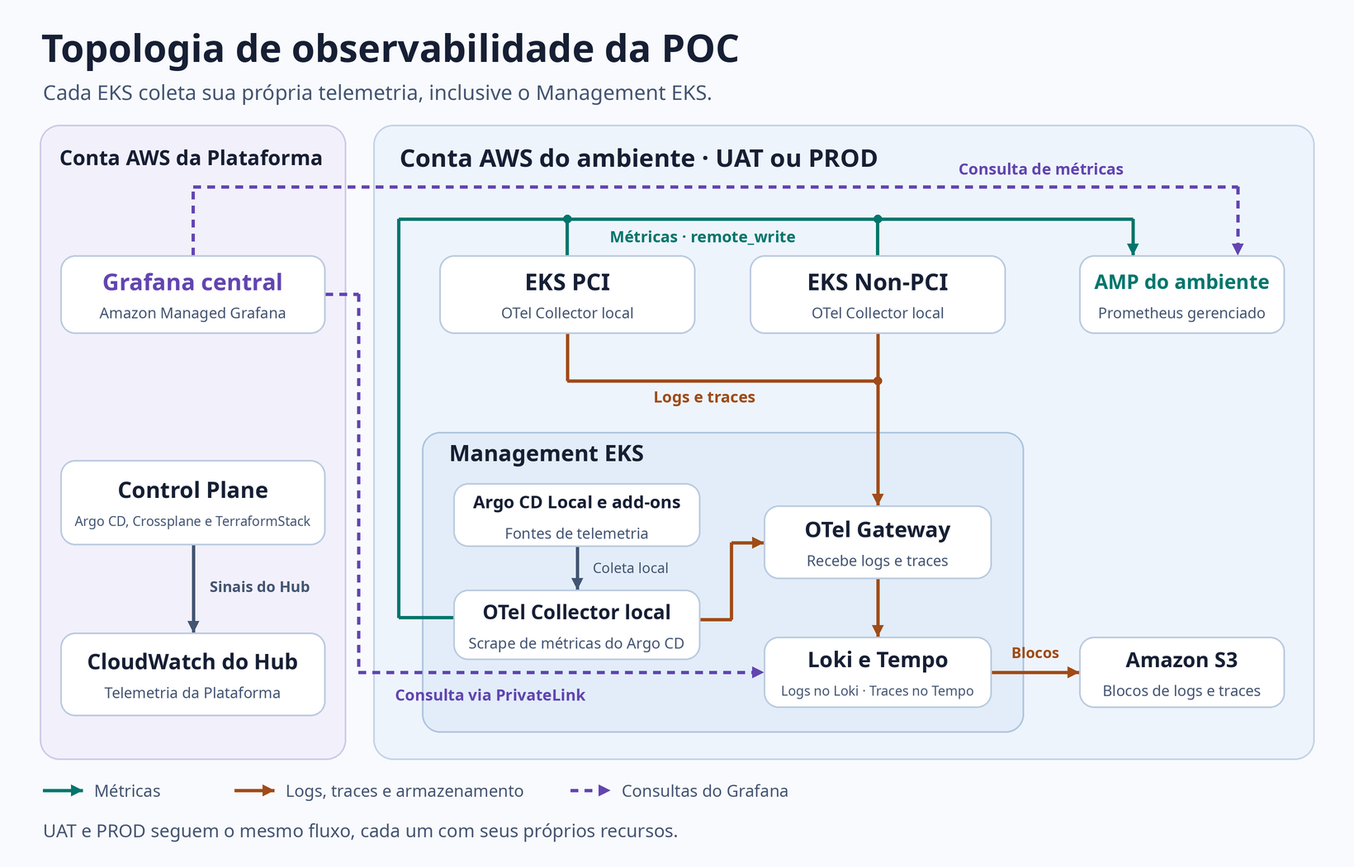
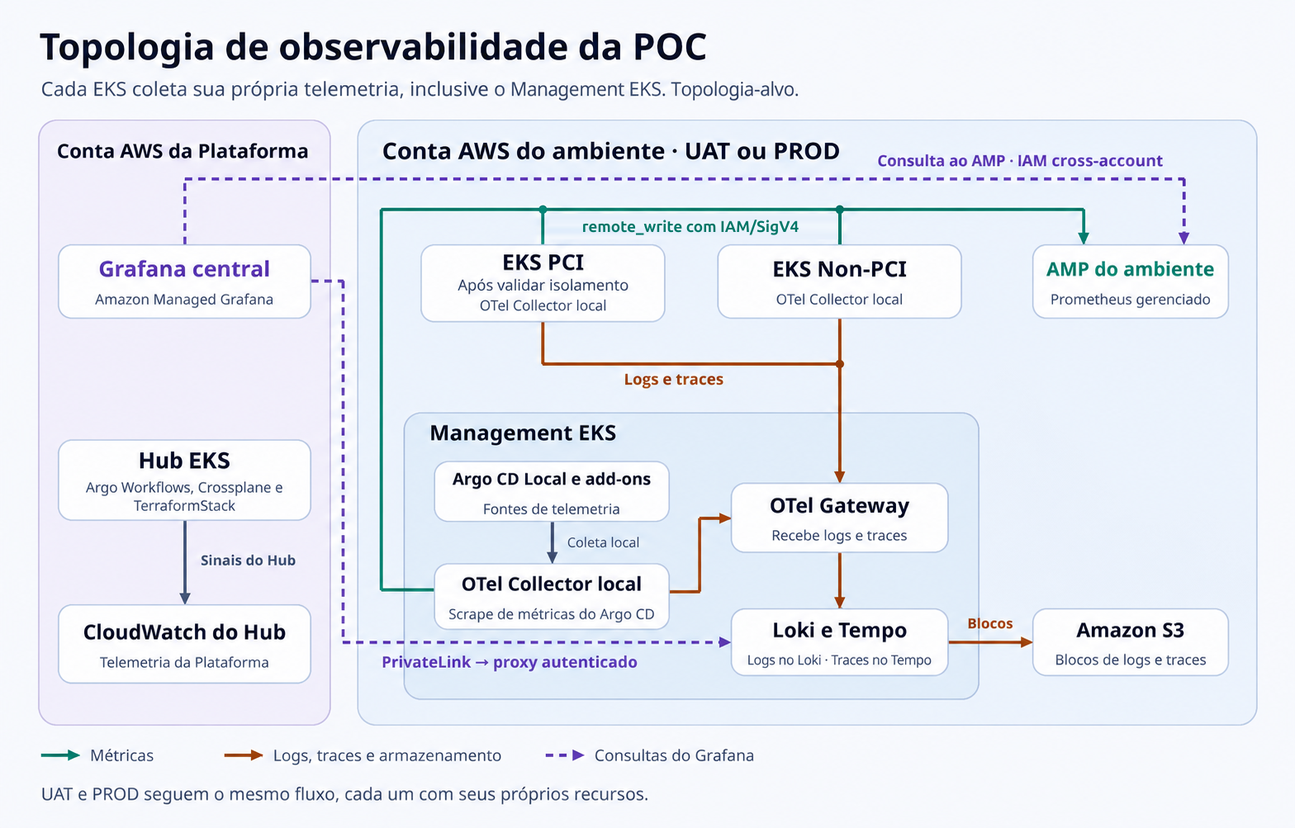
docs: alinha observabilidade, Hub EKS e diagramas

diff --git a/docs/learning-roadmap.md b/docs/learning-roadmap.md
@@ -1,6 +1,6 @@
 # Roteiro prático da POC — Roadmap V2
 
-[← Início](../README.md) · [Arquitetura](architecture.md) · [Guias das etapas](../labs/README.md) · [GitOps](flows/gitops.md) · [TerraformStack](flows/terraformstack.md)
+[← Início](../README.md) · [Arquitetura](architecture.md) · [Guias das etapas](../labs/README.md) · [GitOps](flows/gitops.md) · [TerraformStack](flows/terraformstack.md) · [Observabilidade](flows/observability.md)
 
 A POC é montada em **oito fases e 36 etapas (00–35)**. Cada etapa instala um bloco ou valida um comportamento sobre os blocos já instalados. Os diretórios de implementação seguem os componentes. A numeração organiza os guias e o roteiro. As etapas futuras descrevem entregas e evidências esperadas. [Convenção dos guias](../labs/README.md#como-ler-e-reproduzir-uma-etapa)
 
@@ -55,7 +55,7 @@ Conferir os pré-requisitos da conta de plataforma e consolidar os aceites do Hu
 | **13** | Network e primeiro apply da spoke UAT | Resolver revisões imutáveis e aplicar o mesmo plan aprovado. Verificar e disponibilizar ID da VPC e sub-redes para EKS |
 | **14** | EKS Management em UAT | Consumir outputs verificados de Network e exigir dependência `Ready`. Aplicar o perfil Management, testar acesso privado e iniciar o onboarding |
 | **15** | EKS Non-PCI em UAT | Habilitar Non-PCI na mesma raiz EKS. Verificar dependências, IAM e outputs. PCI segue para a Etapa 30 |
-| **16** | Platform GitOps multicluster e add-ons | Criar Access Entries, registrar ARNs e labels, comprovar sincronização de APIs privadas entre VPCs isoladas pela EKS Capability for Argo CD. ApplicationSets entregam add-ons por perfil; Argo CD local recebe destinos autorizados na própria VPC. [ADR-0008](adr/0008-managed-argocd-connectivity.md) |
+| **16** | Platform GitOps multicluster e add-ons | Criar Access Entries, registrar ARNs e labels, comprovar sincronização de APIs privadas entre VPCs isoladas pela EKS Capability for Argo CD. ApplicationSets entregam add-ons por perfil. Argo CD local recebe destinos autorizados na própria VPC. A instalação dos componentes de observabilidade em UAT entra nas Etapas 26–27. [ADR-0008](adr/0008-managed-argocd-connectivity.md) |
 | **17** | GitOps Bridge | Publicar outputs allowlisted no Parameter Store após verify e comprovar consumo via ESO no Management EKS |
 | **18** | Smoke test HTTP do Non-PCI | Argo CD local sincroniza workload mínimo, verifica serviço e remove os recursos do teste |
 
@@ -104,12 +104,12 @@ Construir uma aplicação **mínima e funcional** usando a infraestrutura pronta
 
 ## Fase 6 — Observabilidade, operação e governança
 
-Integrar a coleta e a visualização dos sinais do Hub e dos clusters do Environment. A Etapa 26 começa com Management e Non-PCI em UAT. As Etapas 30–31 ampliam a validação para PCI e PROD quando disponíveis. [ADR-0010](adr/0010-observability-topology.md) · [Fluxo e critérios de aceite](flows/observability.md) O controller não depende de backends externos. Concluir as validações de lifecycle na AWS. Políticas preventivas essenciais já devem existir desde a introdução de cada componente; esta fase consolida diagnósticos e cenários mais avançados.
+Integrar a coleta e a consulta dos sinais do Hub e dos clusters do Environment. A Etapa 26 começa com Management e Non-PCI em UAT. As Etapas 30–31 ampliam a validação para PCI e PROD quando autorizados. O controller já expõe seus sinais operacionais localmente. A fase também consolida as validações de lifecycle e políticas na AWS. [ADR-0010](adr/0010-observability-topology.md) · [Fluxo e critérios de aceite](flows/observability.md)
 
 | Etapa | Entrega | Evidência |
 | :--- | :--- | :--- |
-| **26** | Telemetria do Hub e de UAT | Validar Collectors no Management e no Non-PCI, envio direto ao AMP e scrape do Argo CD local. Correlacionar métrica, log e trace de aplicação no Grafana. Conferir consultas do Grafana a Loki/Tempo via PrivateLink e os sinais essenciais do Hub no CloudWatch. |
-| **27** | Diagnóstico, recuperação e custos | Interromper o OTel Gateway em UAT, confirmar novas amostras no AMP e receber alerta externo ao Management EKS. Medir recuperação e perda de logs/traces, rastreabilidade e custo. |
+| **26** | Telemetria do Hub e de UAT | Validar Collectors no Management e no Non-PCI, envio direto ao AMP e scrape do Argo CD local. Correlacionar métrica, log e trace de aplicação no Managed Grafana. Validar consulta ao AMP via IAM cross-account, a Loki/Tempo via PrivateLink e proxy autenticado. Conferir os sinais essenciais do Hub no CloudWatch. |
+| **27** | Diagnóstico, recuperação e custos | Interromper o OTel Gateway em UAT, confirmar novas amostras no AMP e receber alerta de um check externo ao Management EKS. Após recuperar o Gateway, medir fila, perda de logs e traces e custo. |
 | **28** | Drift Detection do TerraformStack | Validar na AWS `driftCheckInterval` configurável, agendamento idempotente com jitter e verificação periódica; detectar alteração externa em stack UAT, registrar última/próxima checagem e condição/alerta **sem aplicar correção** |
 | **29** | Reconciliação, destroy e políticas | Ampliar as regras OPA da Etapa 13 e comprovar **Auto Apply / Require Approval / Deny** com três planos de teste e evidências da etapa alcançada; testar drift, `plan -destroy` explícito, destroy on deletion com finalizer, proteção de dependências, aprovação humana e bloqueio de ações sensíveis |
 | **30** | EKS PCI e isolamento PCI/Non-PCI em UAT | Reutilizar a **stack EKS** e habilitar PCI somente com autorização/custo aprovados; registrar com perfil restrito, aplicar add-ons autorizados e testar negações entre PCI e Non-PCI, incluindo escrita e consulta de telemetria. Sem PCI real, declarar somente validação lógica, não isolamento operacional |

diff --git a/README.md b/README.md
@@ -34,7 +34,7 @@ O exercício implementa uma fatia do **Rastreamento de Encomendas**. Um operador
 
 [**Ver diagrama em tamanho completo**](docs/arquitetura%20Plataform.png) · [Topologia lógica e fluxos detalhados](docs/architecture.md#2-visão-geral)
 
-O diagrama mostra a topologia-alvo. A POC começa com o [bootstrap do Hub EKS Auto Mode](labs/01-platform-management-cluster.md) e o [primeiro sync no Argo CD gerenciado](labs/02-argocd-central.md). O Hub está provisionado. O primeiro workload e o aceite GitOps no EKS ainda precisam ser executados. [Estado da POC](docs/architecture.md#2-visão-geral) · [Evidências do Simulator](labs/06-terraformstack-simulator.md#evidências-de-aceite).
+O diagrama mostra a topologia-alvo. A POC começa com o [bootstrap do Hub EKS Auto Mode](labs/01-platform-management-cluster.md) e o [primeiro sync no Argo CD gerenciado](labs/02-argocd-central.md). O Hub está provisionado. O primeiro workload e o aceite GitOps no EKS ainda precisam ser executados. As evidências existentes do Simulator e do Crossplane são do lab local em `kind`. [Estado da POC](docs/architecture.md#2-visão-geral) · [Evidências do Simulator](labs/06-terraformstack-simulator.md#evidências-de-aceite).
 
 **Environment é o contexto UAT/PROD associado à conta AWS inteira, não apenas ao Core.** O Data Plane contém **Core Infrastructure compartilhada** e **Domains** de negócio/aplicação. Um Domain pode possuir Capabilities, namespaces e apps em ambos os ambientes. Capabilities continuam entregues por Crossplane central e aplicações por Argo CD local.
 
@@ -76,7 +76,7 @@ A infraestrutura do Domain é simulada em **pastas do monorepo**, sob ownership 
 - **TerraformStack.** O CRD da Etapa 04 descreve a infraestrutura desejada e chega à API do Hub via Argo CD central. A Etapa 05 instala o controller Go (controller-runtime, Leader Election e watches) e a pipeline de referência do Argo Workflows. O controller reconcilia um Workflow ativo por CR e permite selecionar uma integração cadastrada por `spec.workflowRef.name`, com autorização operacional habilitada por padrão e opcional por integração. O adapter Argo traduz o contrato de execução. A pipeline de referência resolve Git, contexto e state e executa Terraform/OpenTofu, OPA e o handshake de autorização. Outras pipelines compatíveis podem escolher suas ferramentas. A Etapa 06 verifica políticas e drift no Simulator. O primeiro apply na AWS está previsto para a Etapa 13, com aprovação humana. As Etapas 28 e 29 tratam de drift e reconciliação por políticas na AWS. [Execution Contract](docs/flows/terraformstack-execution-contract.md) · [ADR-0009](docs/adr/0009-terraformstack-runtime.md)
 - **Domain Applications:** código Python, testes, **GitHub Actions**, Dockerfile e manifests Kubernetes no **repositório separado da squad** (Fase 5). CI publica imagem no Amazon ECR e propõe atualização declarativa de digest; o Argo CD local entrega a aplicação nos EKS autorizados.
 - **Observabilidade do TerraformStack:** logs JSON, Kubernetes Events e métricas nativas/customizadas por CR já fazem parte do controller; não dependem da instalação de coletores, Prometheus Server ou dashboards. A integração dos sinais essenciais do Hub com CloudWatch entra nas Etapas 26–27. [Operação do controller](control-plane/terraformstack/controller/README.md)
-- **Observability Plane.** Collectors nos três EKS de cada ambiente enviam métricas direto ao AMP. Logs e traces passam pelo Gateway e pelos backends Loki/Tempo no Management EKS, com S3 na conta do ambiente. O Hub centraliza consultas no Managed Grafana. [ADR-0010](docs/adr/0010-observability-topology.md)
+- **Observability Plane.** Na topologia-alvo, cada EKS envia métricas direto ao Amazon Managed Service for Prometheus (AMP) do ambiente. Logs e traces passam pelo OTel Gateway no Management EKS e seguem para Loki e Tempo, com armazenamento em S3 na conta do ambiente. A conta da Plataforma centraliza as consultas no Amazon Managed Grafana e recebe os sinais essenciais do Hub no CloudWatch. O aceite começa com Management e Non-PCI em UAT nas Etapas 26–27. O perfil PCI depende da validação de isolamento. [ADR-0010](docs/adr/0010-observability-topology.md) · [Fluxo de observabilidade](docs/flows/observability.md)
 - **Ownership:** Foundation → Entity Core Infrastructure → Domain Infrastructure → Domain Applications.
 
 [Decisão de personas e Golden Paths](docs/adr/0007-personas-and-developer-experience.md)
@@ -85,7 +85,7 @@ A infraestrutura do Domain é simulada em **pastas do monorepo**, sob ownership 
 
 O Simulator gerencia um ConfigMap no Hub. O ensaio local comprovou auto apply, aprovação auditada, bloqueio por política, drift, retry e destroy com Terraform. O OpenTofu usa o mesmo contrato de execução e um state separado. [Guia da Etapa 06](labs/06-terraformstack-simulator.md)
 
-Depois do aceite de TerraformStack e Crossplane, as Etapas 09–10 consolidam a base do Hub EKS e os pré-requisitos das spokes. As Etapas 11–12 preparam UAT e o executor. A primeira Network da spoke, Management EKS e Non-PCI entram nas Etapas 13–15. As Capabilities AWS entram após o smoke test. [Roteiro prático](docs/learning-roadmap.md)
+Depois do aceite de TerraformStack e Crossplane no Hub EKS, as Etapas 09–10 consolidam as evidências do Hub e os pré-requisitos das spokes. As Etapas 11–12 preparam UAT e o executor. A primeira Network da spoke, Management EKS e Non-PCI entram nas Etapas 13–15. As Capabilities AWS entram após o smoke test. [Roteiro prático](docs/learning-roadmap.md)
 
 > [!IMPORTANT]
 > Executar AWS somente com conta/região verificadas via STS, IAM mínimo, custo, autorização explícita e plano de cleanup. Não publicar credenciais, kubeconfigs ou Terraform state. Aprovar a documentação **não** autoriza `apply`/`destroy`.

diff --git a/AGENTS.md b/AGENTS.md
@@ -27,7 +27,7 @@ Escrever os documentos **na voz do próprio projeto**, em português brasileiro 
 - **Observability Plane:** Managed Grafana e CloudWatch do Hub na conta da Plataforma. Cada EKS envia métricas direto ao AMP do ambiente. Logs e traces seguem pelo Gateway para Loki/Tempo no Management EKS, com S3 do ambiente. Validar ingestão e consulta antes de habilitar PCI. [ADR-0010](docs/adr/0010-observability-topology.md).
 - **Data Plane:** `data-plane/<entity>/core-infrastructure/{uat,prod}/` organiza recursos comuns; `data-plane/<entity>/domains/<domain>/` organiza uma identidade única e recursos/aplicações por ambiente. Ambos pertencem ao Data Plane; **Environment não equivale a Core**.
 - **Applications:** Argo CD local do Management EKS aplica namespaces, policies e workloads em PCI/Non-PCI **somente se o isolamento permitir**.
-- **Topologia-alvo:** UAT e PROD são contas AWS separadas; cada uma inclui Management EKS, EKS PCI, EKS Non-PCI e AWS Runtime. EKS Auto Mode preferido, sob validação de custo/operadores/PCI. Hub é `kind` inicialmente. Sem MSK na primeira versão.
+- **Topologia-alvo:** UAT e PROD são contas AWS separadas; cada uma inclui Management EKS, EKS PCI, EKS Non-PCI e AWS Runtime. EKS Auto Mode preferido, sob validação de custo/operadores/PCI. O roteiro começa no Hub EKS Auto Mode. O lab `kind` preserva as evidências locais de TerraformStack e Crossplane. Sem MSK na primeira versão.
 
 - **Policy Engine:** módulos Rego reutilizáveis e perfis YAML em `workflow-plane/policy-engine/`; perfil selecionado pela pipeline confiável. Regras AWS futuras não devem ser ativadas sem implementação e testes. [Policy Engine](workflow-plane/policy-engine/README.md).
 
@@ -54,9 +54,9 @@ Os YAMLs `domain.yaml` e `environment.yaml` são registros lógicos no Git. Vali
 
 ## Sequência inicial e autenticação
 
-1. Preparar a base do Hub `kind` nas Etapas 01–03.
-2. Instalar o CRD e a pipeline canônica do TerraformStack nas Etapas 04–05. Concluir o aceite com o Simulator na Etapa 06.
-3. Completar o fluxo Crossplane com recursos locais nas Etapas 07–08. Na conta de plataforma, preparar Foundation, bootstrap do Hub EKS Auto Mode e reinstalação dos mesmos blocos nas Etapas 09–10. Repetir as validações Kubernetes no novo Hub antes das spokes.
+1. Preparar a base do Hub EKS nas Etapas 01–03. Confirmar o primeiro workload e o primeiro sync com a EKS Capability for Argo CD antes de instalar os blocos seguintes.
+2. Adequar os guias locais ao Hub EKS. Instalar o CRD e a pipeline canônica do TerraformStack nas Etapas 04–05. Concluir o aceite com o Simulator na Etapa 06.
+3. Completar o fluxo Crossplane com recursos Kubernetes de teste nas Etapas 07–08. Preparar a Foundation para as spokes e consolidar as evidências do Hub EKS nas Etapas 09–10.
 4. Validar o registro UAT e o acesso humano por IAM Identity Center na Etapa 11. Validar identidade temporária do executor e backend segregado na Etapa 12. Aplicar Network com aprovação explícita na Etapa 13. Fazer Management e Non-PCI nas Etapas 14–15, onboarding, add-ons e Bridge nas 16–17 e smoke test na 18.
 5. Validar a identidade dedicada do Provider AWS no Hub EKS na Etapa 19. Validar `ObjectStorage` e Aurora nas Etapas 20–21. Validar PROD na Etapa 31 e introduzir o Domain na Etapa 34.
 
@@ -64,7 +64,7 @@ Os YAMLs `domain.yaml` e `environment.yaml` são registros lógicos no Git. Vali
 
 O arquivo [`docs/arquitetura Plataform.png`](docs/arquitetura%20Plataform.png) é o **diagrama de referência do projeto**, exibido no README e na arquitetura detalhada. **Manter essa imagem como referência; não criar desenhos alternativos sem uma decisão de atualização.** Se um ADR alterar personas, ownership, TerraformStack, topologia ou GitOps, verificar a consistência do diagrama e dos documentos, sem declarar componentes propostos como implantados. Não reintroduzir `TerraformRun` como contrato declarativo principal.
 
-O monorepo organiza a implementação por bloco e usa a numeração nos guias e no roteiro. Reutilizar os manifests e a pipeline canônicos na montagem cumulativa. Criar pastas Domain/Foundation somente com conteúdo real das etapas. Manter navegação e links válidos e preservar as 24 aulas em [fundamentos](docs/fundamentos/README.md). O [roteiro](docs/learning-roadmap.md) mantém a numeração contínua das etapas.
+O monorepo organiza a implementação por bloco e usa a numeração nos guias e no roteiro. Reutilizar os manifests e a pipeline canônicos na montagem cumulativa. Criar pastas Domain/Foundation somente com conteúdo real das etapas. Manter navegação e links válidos e preservar as aulas em [fundamentos](docs/fundamentos/README.md). O [roteiro](docs/learning-roadmap.md) mantém a numeração contínua das etapas.
 
 - Escrever cada guia como registro reproduzível de uma decisão da POC. Começar com **Objetivo** e **O que será feito**, explicar a decisão em **Por que fizemos assim** e usar **O que observar** para ligar os sinais do sistema ao resultado. O roteiro principal segue a construção e a verificação do comportamento esperado. Incluir diagnóstico junto aos pontos que podem precisar de investigação e limpar os recursos do exercício quando aplicável. [Convenção dos guias](labs/README.md)
 - Organizar as `Applications` do Hub por componente com ciclo de sincronização próprio. Uma etapa pode reutilizar uma `Application` compartilhada. Manter sync manual nos add-ons das etapas locais e indicar o alvo, a revisão e o diff esperado antes de sincronizar. Para uma etapa de observação, usar consultas, eventos e logs. [ADR-0003](docs/adr/0003-reconciliation-and-gitops.md)

diff --git a/docs/flows/gitops.md b/docs/flows/gitops.md
@@ -14,7 +14,7 @@ O GitOps abrange quatro fluxos complementares:
 
 | Fluxo | Entrada declarativa | Responsável pela execução/reconciliação | Resultado |
 | --- | --- | --- | --- |
-| **Platform GitOps** | Catálogo de add-ons e Applications | Argo CD central e ApplicationSet | Componentes Kubernetes corporativos |
+| **Platform GitOps** | Catálogo de add-ons e Applications | Argo CD central e ApplicationSet | Componentes Kubernetes da plataforma |
 | **Infrastructure GitOps — Crossplane** | CRs de Capabilities | Crossplane central e Provider AWS | S3, Aurora PostgreSQL e demais Capabilities |
 | **Infrastructure GitOps — Terraform** | CR `TerraformStack` | TerraformStack Controller → Argo Workflows → Terraform Executor | ConfigMap no Simulator. Foundation, rede, IAM e EKS no alvo AWS |
 | **Domain GitOps** | Manifests de aplicações no repositório da squad | Argo CD local | Aplicações nos clusters PCI/Non-PCI autorizados |
@@ -25,13 +25,13 @@ O GitOps abrange quatro fluxos complementares:
 
 A [Etapa 01](../../labs/01-platform-management-cluster.md) usa a stack Terraform `platform-hub` para provisionar o cluster e a **EKS Capability for Argo CD** com IAM Identity Center. A [Etapa 02](../../labs/02-argocd-central.md) registra o Hub por ARN, configura permissões e sincroniza o primeiro recurso do Git.
 
-O catálogo em `platform/hub/addons/catalog/` organiza uma Application por componente. A instalação no EKS depende da adaptação dos AppProjects, do destino e das configurações de cada add-on à capability. A descoberta de Applications pelo ApplicationSet e o sync são operações distintas. Inspecionar revisão, destino e diff antes do sync manual.
+O catálogo em `platform/hub/addons/catalog/` organiza uma Application por componente. A instalação no EKS depende da adaptação dos AppProjects, do destino e das configurações de cada add-on à capability. O lab local em `kind` preserva as evidências existentes das Etapas 03–08. A descoberta de Applications pelo ApplicationSet e o sync são operações distintas. Inspecionar revisão, destino e diff antes do sync manual.
 
 ## 3. Platform GitOps — governança dos add-ons
 
-O **Platform Team** mantém o padrão corporativo de componentes Kubernetes ao longo de seu ciclo de vida: instalação, atualização, configuração e reconciliação.
+O **Platform Team** mantém o padrão de componentes Kubernetes da plataforma ao longo de seu ciclo de vida: instalação, atualização, configuração e reconciliação.
 
-São exemplos de add-ons corporativos: Metrics Server, Karpenter, External Secrets Operator, logging, observabilidade, segurança e controllers da plataforma. Os **recursos AWS associados**, como IAM Roles e dependências de Karpenter, são provisionados pelo motor de infraestrutura designado, e não automaticamente pelo Helm Chart.
+O catálogo pode incluir componentes como External Secrets Operator, OTel Collector e add-ons de segurança. Os **recursos AWS associados**, como IAM Roles, são provisionados pelo motor de infraestrutura designado, e não automaticamente pelo Helm Chart.
 
 ### Descoberta e seleção
 
@@ -45,7 +45,7 @@ Perfis previstos:
 
 | Perfil | Escopo de add-ons |
 | --- | --- |
-| **Hub (perfil físico central)** | Argo CD central e Argo Workflows (Workflow Plane), Crossplane e controllers (Control Plane), coleta dos sinais operacionais do Hub |
+| **Hub** | Argo Workflows, Crossplane, controllers e coleta dos sinais operacionais do Hub. A EKS Capability for Argo CD é provisionada no bootstrap do Hub. |
 | **Management** | Argo CD local, OTel Collector, OTel Gateway, Loki e Tempo |
 | **PCI** | Add-ons do perfil PCI, incluindo Collector quando a fronteira de telemetria for aprovada |
 | **Non-PCI** | Add-ons do perfil padrão, incluindo OTel Collector |
@@ -54,7 +54,7 @@ O [fluxo de observabilidade](observability.md) detalha os destinos e acessos de 
 
 Cada cluster poderá receber labels como `entity`, `environment`, `cluster-role` e `compliance`. Essas labels são **metadados de seleção**, não mecanismo de autorização por si sós. O onboarding estabelece previamente acesso, identidade, RBAC e confiança do cluster.
 
-**Overrides por Entity/Environment** são permitidos quando definidos e aprovados pelo Platform Team. A customização de parâmetros não transfere o ownership do add-on corporativo.
+**Overrides por Entity/Environment** são permitidos quando definidos e aprovados pelo Platform Team. O Platform Team mantém o ownership do add-on após a customização de parâmetros.
 
 ## 4. Infrastructure GitOps — Crossplane
 
@@ -91,7 +91,7 @@ A squad mantém **código, testes, pipeline CI/CD e manifests Kubernetes em repo
 
 | Tipo de recurso | Quem detecta divergência | Comportamento |
 | --- | --- | --- |
-| Componentes Kubernetes corporativos | Argo CD central | Detecta OutOfSync; `selfHeal` corrige quando habilitado e autorizado |
+| Componentes Kubernetes da plataforma | Argo CD central | Detecta OutOfSync; `selfHeal` corrige quando habilitado e autorizado |
 | Domain Applications | Argo CD local | Sync e rollback conforme políticas de aplicação |
 | Capabilities AWS | Crossplane | Reconciliação contínua conforme configuração/provider |
 | Foundation e EKS via Terraform | TerraformStack Controller + Terraform | Plan/avaliação de drift e remediação conforme política |

diff --git a/platform/hub/README.md b/platform/hub/README.md
@@ -2,16 +2,19 @@
 
 O **Platform Management Cluster** hospeda os componentes de **Control Plane** e **Workflow Plane**. Na topologia AWS, a conta da Plataforma usa Managed Grafana para a consulta central e CloudWatch para os sinais essenciais do Hub. Os caminhos de ingestão dos workloads ficam nos respectivos Environments. [Fluxo de observabilidade](../../docs/flows/observability.md)
 
-- **Etapa 01 — cluster base e networking:** [roteiro](../../labs/01-platform-management-cluster.md), [kind-config.yaml](kind-config.yaml), [namespaces.yaml](namespaces.yaml), Traefik instalado em etapa separada via Helm, Ingress HTTP de demonstração.
-- **Passos locais:** `bash platform/hub/scripts/create.sh` → `bash platform/hub/scripts/install-traefik.sh` → `bash platform/hub/scripts/verify.sh`.
-- **Etapa 02 — Argo CD central e add-ons.** Instalar Argo CD com `bash platform/hub/scripts/install-argocd.sh` e aplicar `addons/bootstrap.yaml` no Hub. O `ApplicationSet` `hub-addons` lê um arquivo por add-on em `addons/catalog/` na `main` publicada. Os AppProjects limitam origem, destino e tipos de recurso. [Guia da Etapa 02](../../labs/02-argocd-central.md) · [Bootstrap](addons/bootstrap.yaml)
-- **Rede.** O Traefik recebe `http://demo.localhost:8080` na Etapa 01, `https://argocd.localhost:8443` na Etapa 02 e `https://workflows.localhost:8443` na Etapa 03.
-- **Segurança.** O bootstrap usa o contexto `kind-platform-management`. Alterações no catálogo e nos AppProjects são mudanças do Platform Team e passam por revisão via PR. Nas etapas locais, o sync dos add-ons é manual. A remoção de uma Application gerada preserva seus recursos no Hub.
-- **Ciclo das Applications.** Cada componente com sincronização própria tem uma Application. Uma etapa pode observar ou reutilizar as Applications compartilhadas. As Applications `terraformstack-crd`, `terraformstack-workflows`, `terraformstack-controller` e `terraformstack-simulator` têm sincronização manual e independente. [Guia da Etapa 05](../../labs/05-terraformstack-runtime.md) · [Guia da Etapa 06](../../labs/06-terraformstack-simulator.md) · [ADR-0003](../../docs/adr/0003-reconciliation-and-gitops.md#applications-e-sincronização-no-hub)
-- **Objetivo:** construir o contrato de plataforma e validar integração com AWS real.
-- **Não confundir:** Hub `kind` local com os EKS Auto Mode dos Data Planes.
+## Hub EKS
 
-## Manutenção do Hub
+- **Etapa 01.** A raiz Terraform `platform-hub` provisiona rede, EKS Auto Mode, EKS Capability for Argo CD e bucket de state do executor. O acesso à API, os NodePools e a capability já foram verificados. O teste com workload segue pendente. [Guia da Etapa 01](../../labs/01-platform-management-cluster.md)
+- **Etapa 02.** Registrar o Hub por ARN, limitar permissões e validar o primeiro sync a partir da `main` publicada. [Guia da Etapa 02](../../labs/02-argocd-central.md)
+- **Etapas 03–08.** O catálogo em `addons/catalog/` organiza uma Application por componente. Os AppProjects, destinos e configurações dos add-ons precisam ser adequados à capability para reproduzir os aceites no EKS. [Guias das etapas](../../labs/README.md)
+
+## Lab local em kind
+
+- **Base local.** `bash platform/hub/scripts/create.sh` → `bash platform/hub/scripts/install-traefik.sh` → `bash platform/hub/scripts/verify.sh`. O Traefik expõe `http://demo.localhost:8080`, `https://argocd.localhost:8443` e `https://workflows.localhost:8443`.
+- **GitOps local.** Instalar o Argo CD autogerenciado com `bash platform/hub/scripts/install-argocd.sh` e aplicar `addons/bootstrap.yaml` no contexto `kind-platform-management`. O ApplicationSet `hub-addons` lê o catálogo da `main` publicada. Os AppProjects limitam origem, destino e tipos de recurso. O sync é manual e a remoção de uma Application gerada preserva seus recursos.
+- **Ciclo das Applications.** Cada componente com sincronização própria tem uma Application. Uma etapa pode observar ou reutilizar as Applications compartilhadas. As Applications `terraformstack-crd`, `terraformstack-workflows`, `terraformstack-controller` e `terraformstack-simulator` têm sincronização manual e independente. [Guia da Etapa 05](../../labs/05-terraformstack-runtime.md) · [Guia da Etapa 06](../../labs/06-terraformstack-simulator.md) · [ADR-0003](../../docs/adr/0003-reconciliation-and-gitops.md#applications-e-sincronização-no-hub)
+
+## Limpeza do lab local
 
 - `bash platform/hub/scripts/delete.sh --confirm` remove o cluster `kind` e todos os objetos locais, incluindo as configurações de etapas posteriores. Trate recursos externos em suas operações de remoção, quando aplicável.
 - Se nenhuma Application depender mais do Argo CD central, `helm --kube-context kind-platform-management -n argocd uninstall argocd` remove o release. O chart preserva os CRDs. A exclusão de um CRD é uma operação separada e remove as instâncias do tipo no cluster.

diff --git a/docs/flows/gitops-bridge.md b/docs/flows/gitops-bridge.md
@@ -26,13 +26,14 @@ Na arquitetura AWS futura há pelo menos **duas fronteiras**: a conta de platafo
 
 | Componente | Onde executa / reside | Ownership |
 | --- | --- | --- |
-| **Argo CD central, TerraformStack Controller e Argo Workflows** | Hub da plataforma. Argo CD autogerenciado no `kind` e EKS Capability for Argo CD no alvo AWS | Platform Team |
+| **Argo CD central** | EKS Capability for Argo CD na conta da Plataforma. O lab em `kind` usa Argo CD autogerenciado | Platform Team |
+| **TerraformStack Controller e Argo Workflows** | Hub EKS na topologia-alvo | Platform Team |
 | **VPC, IAM, Management EKS, PCI e Non-PCI** | Conta AWS do Environment selecionado | Foundation / Entity Core, sob governança do Platform Team |
 | **AWS SSM Parameter Store** | **Mesma conta e região autorizadas do Environment** para os parâmetros publicados nesse destino | Publicação governada pela plataforma |
 | **External Secrets Operator para consumo de gestão** | **Management EKS do Environment**, quando esse cluster já existir | Instalação/configuração-base via Platform GitOps |
 | **ESO de workloads (quando necessário)** | **EKS PCI ou Non-PCI** correspondente, sem compartilhamento automático entre clusters | Platform Team para instalação; consumidores autorizados para ExternalSecrets |
 | **Kubernetes Secrets gerados pelo ESO** | Namespace do **cluster onde o ESO reconcilia** | Consumidor e políticas Kubernetes do cluster |
-| **ApplicationSet corporativo** | **Argo CD central**, não no Management EKS apenas por haver ESO local | Platform Team |
+| **ApplicationSet da plataforma** | **Argo CD central**, não no Management EKS apenas por haver ESO local | Platform Team |
 | **Argo CD local** | Instância autogerenciada no Management EKS do Environment | Aplicações e extensões locais autorizadas |
 
 **Regra:** o ESO **não é um serviço por conta AWS**. É um controller executando **dentro de um cluster Kubernetes**. Uma instância no Management EKS não distribui Kubernetes Secrets automaticamente para PCI, Non-PCI ou Control Plane.
@@ -115,7 +116,7 @@ O **Cluster Generator** do ApplicationSet lê **os clusters registrados no próp
 
 **Não basta criar um Kubernetes Secret genérico no Management EKS.** Ele não será lido automaticamente pelo Cluster Generator central. O Secret de registro de cluster reconhecido pelo Argo CD é um objeto distinto, localizado no contexto do Argo CD que faz a descoberta.
 
-Essa integração de metadados é **opcional**, requer desenho de segurança próprio e **não transfere o ApplicationSet corporativo para a entidade**. Os Platform Addons continuam sob ownership central; o Argo CD local mantém o ownership das aplicações e extensões autorizadas.
+Essa integração de metadados é **opcional**, requer desenho de segurança próprio e **não transfere o ApplicationSet da plataforma para a entidade**. Os Platform Addons continuam sob ownership central; o Argo CD local mantém o ownership das aplicações e extensões autorizadas.
 
 ## 5. Onboarding é separado do GitOps Bridge
 
@@ -158,7 +159,7 @@ A arquitetura AWS adota a **EKS Capability for Argo CD** como Argo CD central. A
 
 **Idempotência:** republicar a mesma versão não pode provocar efeitos colaterais indevidos. Eventos duplicados, falhas parciais e parâmetros ausentes devem gerar sinais observáveis, não estados falsamente saudáveis.
 
-## 8. Laboratório: kind primeiro, AWS depois
+## 8. Laboratório do GitOps Bridge
 
 ### Ensaio local opcional
 

diff --git a/docs/repository-structure.md b/docs/repository-structure.md
@@ -17,7 +17,7 @@ O código é organizado pelo componente que a plataforma instala e mantém. A nu
 | `data-plane/<entity>/domains/<domain>/<env>/infrastructure/` | **Domain Infrastructure** · manifests de Capabilities sob gestão do DevOps Federado; Crossplane central é reconciliador |
 | **Repositório próprio da aplicação (etapa futura)**: `src/`, `tests/`, `.github/workflows/`, `k8s/` | **Domain Applications** · Application Team (código, manifests K8s, CI/CD) + Argo CD local |
 | `control-plane/`, `workflow-plane/`, `platform/hub/` | Código e configuração dos componentes centrais |
-| [`observability-plane/`](../observability-plane/README.md) | Observability Plane sob gestão central, com componentes no Hub e nos Environments |
+| [`observability-plane/`](../observability-plane/README.md) | Documentação do Observability Plane sob gestão do Platform Team. A topologia prevê consulta central e coleta e armazenamento por Environment |
 
 Os registros de Domain ficam no monorepo. O DevOps Federado mantém os manifests de infraestrutura em `infrastructure/` para cada destino, e a squad mantém os manifests da aplicação no próprio repositório. Ver [ADR-0007](adr/0007-personas-and-developer-experience.md).
 
@@ -35,9 +35,9 @@ O repositório mantém os valores em `foundation/config/`. As stacks com configu
 
 **Platform Team:** mantém plataforma, Foundation, Core compartilhado, Capabilities e Golden Paths. **Federated DevOps Team:** gerencia a intenção e o lifecycle de **Domain Infrastructure** no monorepo. **Application Team:** mantém código, testes, imagens, GitHub Actions e manifests Kubernetes no **mesmo repositório de aplicação**. Os paths `applications/` no monorepo eram apenas exemplos anteriores; **não criá-los** para Application Team neste lab. Backstage/CLI/Git são canais de consumo do Starter Kit, não imposição de um único frontend. Ver [ADR-0007](adr/0007-personas-and-developer-experience.md).
 
-### Primeira implementação
+### Implementação atual e aceites pendentes
 
-- `platform/hub/kind-config.yaml` e `platform/hub/scripts/`: criação, inspeção e remoção **apenas do cluster local kind**.
+- `platform/hub/kind-config.yaml` e `platform/hub/scripts/` mantêm o lab local em `kind` e permitem reproduzir as evidências existentes das Etapas 03–08. O aceite desses blocos no EKS segue os guias e o roteiro.
 - `platform/hub/addons/` reúne o bootstrap dos AppProjects e do `ApplicationSet`, além de uma entrada por add-on do Hub. O primeiro sync no EKS é validado na [Etapa 02](../labs/02-argocd-central.md).
 - [Guias das etapas](../labs/README.md) em `labs/`, começando pelo Hub EKS na Etapa 01.
 - `foundation/config/entity-a/{uat,prod}/environment.yaml` contém os registros de UAT e PROD com IDs distintos, região, baseline de rede e clusters EKS previstos. O roteiro usa UAT pela primeira vez na [Etapa 11](learning-roadmap.md#etapa-11--registro-de-uat). PROD entra na Etapa 31 para validar isolamento.

diff --git a/observability-plane/README.md b/observability-plane/README.md
@@ -4,15 +4,17 @@
 
 ## Topologia-alvo
 
+O repositório registra a decisão de arquitetura. A implantação e os testes do fluxo completo começam em UAT nas Etapas 26–27.
+
 A conta da Plataforma oferece consulta central com **Amazon Managed Grafana** e usa **CloudWatch** para os sinais essenciais do Hub. Cada conta UAT ou PROD tem seus próprios destinos de armazenamento. Os EKS Management, PCI e Non-PCI coletam a telemetria local com OpenTelemetry. A ativação do perfil PCI depende da validação da fronteira de isolamento.
 
 | Sinal | Destino no Environment |
 | :--- | :--- |
-| Métricas | Cada OTel Collector envia diretamente ao **Amazon Managed Service for Prometheus (AMP)** do ambiente. |
+| Métricas | Cada OTel Collector envia via Prometheus `remote_write` com IAM/SigV4 diretamente ao **Amazon Managed Service for Prometheus (AMP)** do ambiente. |
 | Logs | Gateway no Management EKS → **Loki** no mesmo cluster → **S3** do ambiente. |
 | Traces | Gateway no Management EKS → **Tempo** no mesmo cluster → **S3** do ambiente. |
 
-O Management EKS também gera telemetria. Seu Collector coleta métricas do Argo CD local e de outros add-ons e envia ao AMP. O Gateway recebe logs e traces locais e dos clusters de workloads. O Grafana consulta AMP via IAM cross-account e Loki/Tempo via PrivateLink.
+O Management EKS também gera telemetria. Seu Collector coleta métricas do Argo CD local e de outros add-ons e envia ao AMP. O Gateway recebe logs e traces locais e dos clusters de workloads. O Grafana consulta AMP via IAM cross-account e Loki/Tempo via PrivateLink e proxy autenticado.
 
 ## Sinais já disponíveis no TerraformStack
 
@@ -20,4 +22,4 @@ O controller publica logs estruturados JSON em stdout, Events na API Kubernetes 
 
 ## Etapas de aprendizado
 
-No Hub `kind`, o Simulator correlaciona revisão Git, Workflow, condições, horários de drift e auditoria da aprovação na API Kubernetes. Na AWS, as Etapas 26–27 integram coletores, backends, sinais do Hub e diagnóstico de perda de ingestão em UAT. As Etapas 30–31 validam as fronteiras PCI e PROD quando esses destinos forem autorizados e provisionados. [Evidências locais](../labs/06-terraformstack-simulator.md#evidências-de-aceite) · [Roteiro](../docs/learning-roadmap.md#fase-6--observabilidade-operação-e-governança)
+No lab local em `kind`, o Simulator correlaciona revisão Git, Workflow, condições, horários de drift e auditoria da aprovação na API Kubernetes. Na AWS, as Etapas 26–27 integram coletores, backends, sinais do Hub e diagnóstico de perda de ingestão em UAT. As Etapas 30–31 validam as fronteiras PCI e PROD quando esses destinos forem autorizados e provisionados. [Evidências locais](../labs/06-terraformstack-simulator.md#evidências-de-aceite) · [Roteiro](../docs/learning-roadmap.md#fase-6--observabilidade-operação-e-governança)

diff --git a/workflow-plane/README.md b/workflow-plane/README.md
@@ -1,6 +1,6 @@
 # ⚙ Workflow Plane
 
-O Workflow Plane mantém processos, GitOps central, aprovação e execução. O Argo Workflows é instalado no Hub após o Argo CD central. A Etapa 03 publica a interface em `https://workflows.localhost:8443` pelo Traefik e usa um token de leitura temporário para observar as execuções. [Guia da Etapa 03](../labs/03-argo-workflows.md)
+O Workflow Plane mantém processos, GitOps central, aprovação e execução. O Argo Workflows é instalado no Hub após o Argo CD central. No guia local da Etapa 03, o lab em `kind` publica a interface em `https://workflows.localhost:8443` pelo Traefik e usa um token de leitura temporário para observar as execuções. [Guia da Etapa 03](../labs/03-argo-workflows.md)
 
 | Componente | Papel |
 | :--- | :--- |
@@ -8,7 +8,7 @@ O Workflow Plane mantém processos, GitOps central, aprovação e execução. O 
 | **Argo Workflows** | Executa os WorkflowTemplates cadastrados; a referência inclui avaliação OPA e gate de aprovação. O Simulator usa esses steps na Etapa 06 |
 | **Terraform Executor** | Imagem genérica com Terraform, OpenTofu e as ferramentas usadas pelos scripts do WorkflowTemplate |
 
-No Hub `kind`, Argo CD central é autogerenciado. No Hub EKS, adotar EKS Capability for Argo CD para sincronização local e cross-account por ARN e Access Entries, sem rotas entre VPCs. [ADR-0008](../docs/adr/0008-managed-argocd-connectivity.md).
+O Hub EKS usa a EKS Capability for Argo CD como Argo CD central. O registro por ARN e as Access Entries habilitam a sincronização no Hub e nos destinos autorizados com VPCs isoladas. O lab em `kind` usa Argo CD autogerenciado. [ADR-0008](../docs/adr/0008-managed-argocd-connectivity.md).
 
 `Entity`, `Environment` e `Domain` são registros lógicos no Git. Não exigem Environment Controller próprio ou XRD de Domain nesta fase. A criação de contas será reconsiderada no futuro quando houver necessidade de lifecycle automatizado. O **Argo CD local** roda em cada Management EKS autorizado, junto do Data Plane.
 
@@ -19,7 +19,7 @@ No Hub `kind`, Argo CD central é autogerenciado. No Hub EKS, adotar EKS Capabil
 
 [ADR-0006](../docs/adr/0006-terraformrun-and-application-ci.md)
 
-O Workflow Plane usa o Hub local. A integração com o Terraform Executor faz parte da [Fase 2 do roteiro](../docs/learning-roadmap.md#fase-2--control-plane-no-hub).
+A integração com o Terraform Executor e o aceite no Hub EKS fazem parte da [Fase 2 do roteiro](../docs/learning-roadmap.md#fase-2--control-plane-no-hub).
 
 [← Início](../README.md) · [Arquitetura](../docs/architecture.md)
 

diff --git a/docs/adr/0002-topology-and-ownership.md b/docs/adr/0002-topology-and-ownership.md
@@ -1,8 +1,8 @@
 # ADR-0002 — Topologia, ownership e organização do Data Plane
 
-**Estado:** decisão vigente, implementação pendente · **Data:** 19/11/2026
+**Estado:** decisão vigente, implementação parcial · **Data:** 19/11/2026
 
-**Decisão:** a taxonomia tem **Experience Layer, Control Plane, Workflow Plane, Observability Plane e Data Plane**. O Hub (`kind` inicialmente) hospeda Control Plane e Workflow Plane. O Observability Plane tem consulta central e componentes por Environment. Uma **Entity** possui UAT/PROD (contas AWS distintas no alvo), cada um com três EKS — Management, PCI, Non-PCI — e AWS Runtime. Essa topologia é replicável; sete clusters é apenas a contagem de uma entidade mais Hub. Hub-and-Spoke não significa rede AWS.
+**Decisão:** a taxonomia tem **Experience Layer, Control Plane, Workflow Plane, Observability Plane e Data Plane**. O Hub EKS Auto Mode reúne Control Plane e Workflow Plane. A EKS Capability for Argo CD provê o GitOps central gerenciado. O lab local em `kind` preserva as evidências anteriores. [ADR-0008](0008-managed-argocd-connectivity.md) O Observability Plane tem consulta central e componentes por Environment. Uma **Entity** possui UAT/PROD (contas AWS distintas no alvo), cada um com três EKS — Management, PCI, Non-PCI — e AWS Runtime. Essa topologia é replicável; sete clusters é apenas a contagem de uma entidade mais Hub. Hub-and-Spoke não significa rede AWS.
 
 As **três personas** são **Platform Team**, **Federated DevOps Team** e **Application Team**. Seus níveis de abstração diferem: a plataforma constrói os contratos e motores, o federado opera as intenções de infraestrutura do Domain e o desenvolvimento concentra-se no código e no ciclo da aplicação. Ver [ADR-0007](0007-personas-and-developer-experience.md).
 

diff --git a/docs/flows/terraformstack.md b/docs/flows/terraformstack.md
@@ -2,13 +2,11 @@
 
 [Arquitetura](../architecture.md) · [GitOps](gitops.md) · [ADR-0006](../adr/0006-terraformrun-and-application-ci.md) · [Roadmap](../learning-roadmap.md)
 
-O `TerraformStack` declara a infraestrutura desejada de Foundation e Entity Core. Na Etapa 06, o aceite verifica o fluxo de ponta a ponta no Hub `kind`. O Terraform Stack Simulator usa o provider Kubernetes para gerenciar um ConfigMap com a configuração efetiva de Network. A integração com a AWS segue nas etapas do roadmap. [Guia do Simulator](../../labs/06-terraformstack-simulator.md)
+O `TerraformStack` declara a infraestrutura desejada de Foundation e Entity Core. As evidências existentes da Etapa 06 verificam o fluxo de ponta a ponta no lab `kind`. O aceite no Hub EKS ainda precisa ser executado. O Terraform Stack Simulator usa o provider Kubernetes para gerenciar um ConfigMap com a configuração efetiva de Network. A integração com a AWS segue nas etapas do roadmap. [Guia do Simulator](../../labs/06-terraformstack-simulator.md)
 
-O diagrama mostra os caminhos de execução, política e drift validados no Simulator. O painel da conta AWS representa o destino das próximas fases. A seção de status descreve os campos e as condições da API instalada.
+O diagrama ilustra a pipeline de referência com autorização habilitada e os caminhos de execução, política e drift validados no Simulator. O painel da conta AWS representa o destino das próximas fases.
 
 ![Fluxo do TerraformStack e reconciliação de drift](terraformstack-flow.png)
-
-O diagrama ilustra a pipeline governada de referência com autorização habilitada; não prescreve os steps de integrações alternativas.
 
 ## 1. Do Git ao Workflow
 
